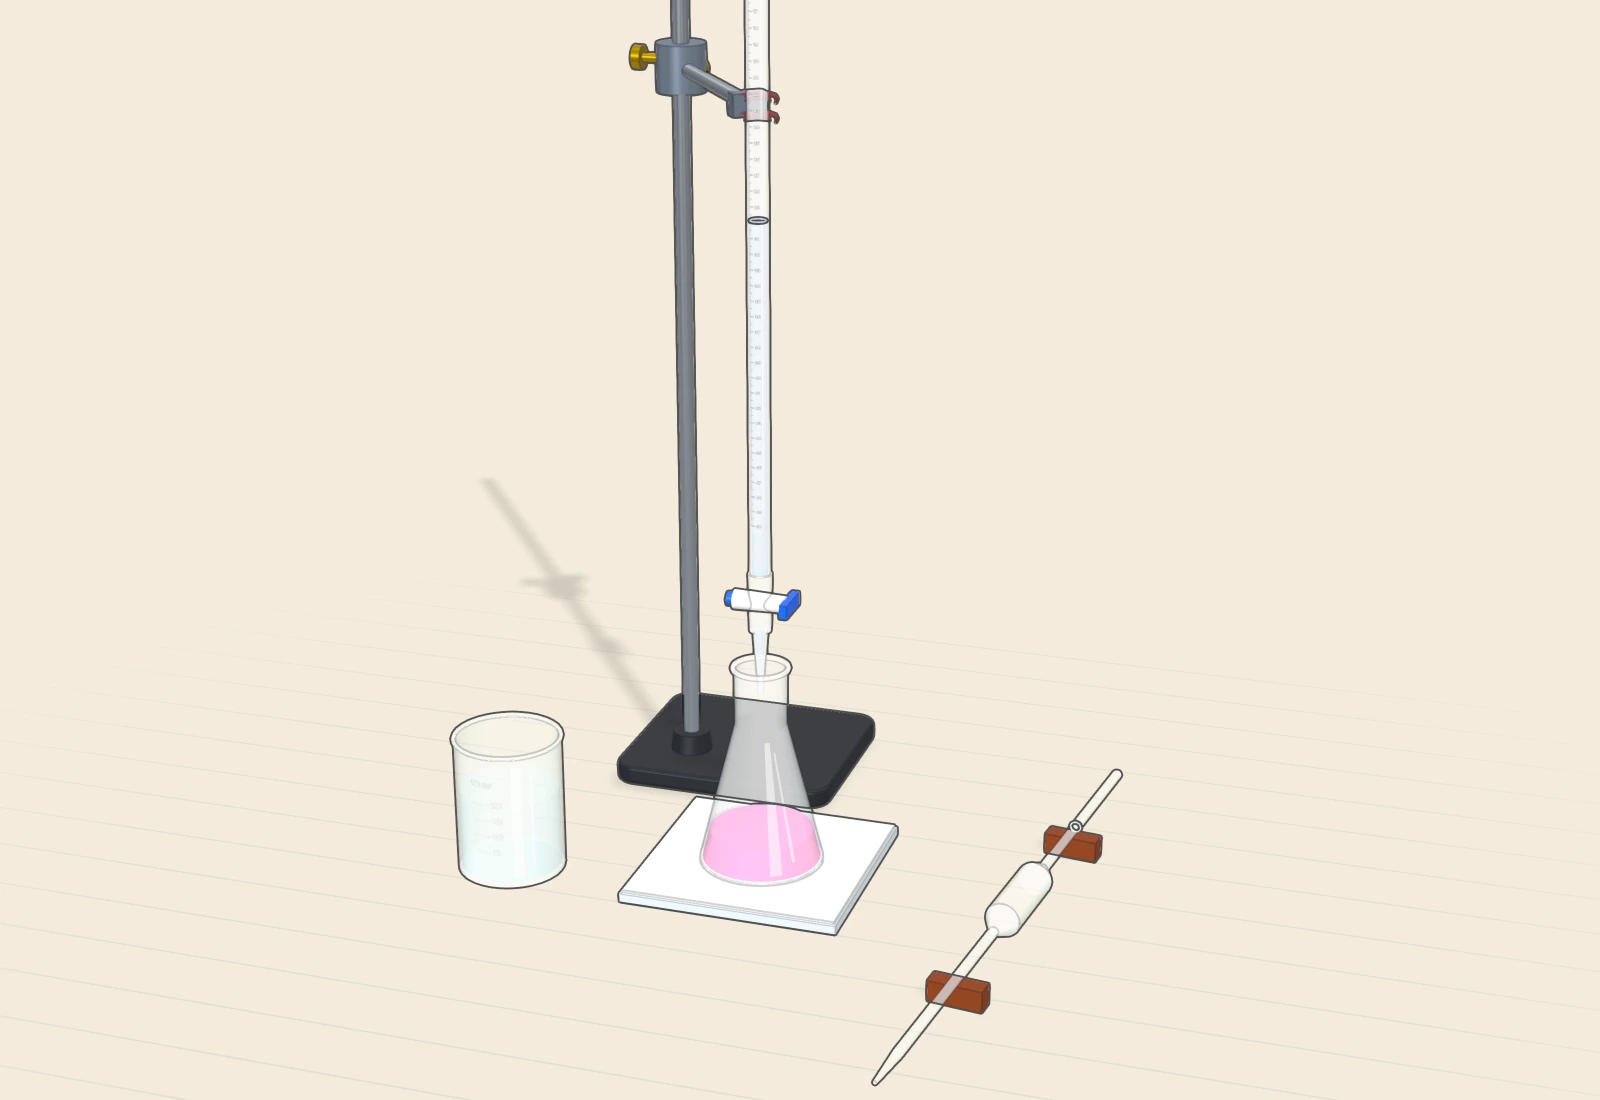
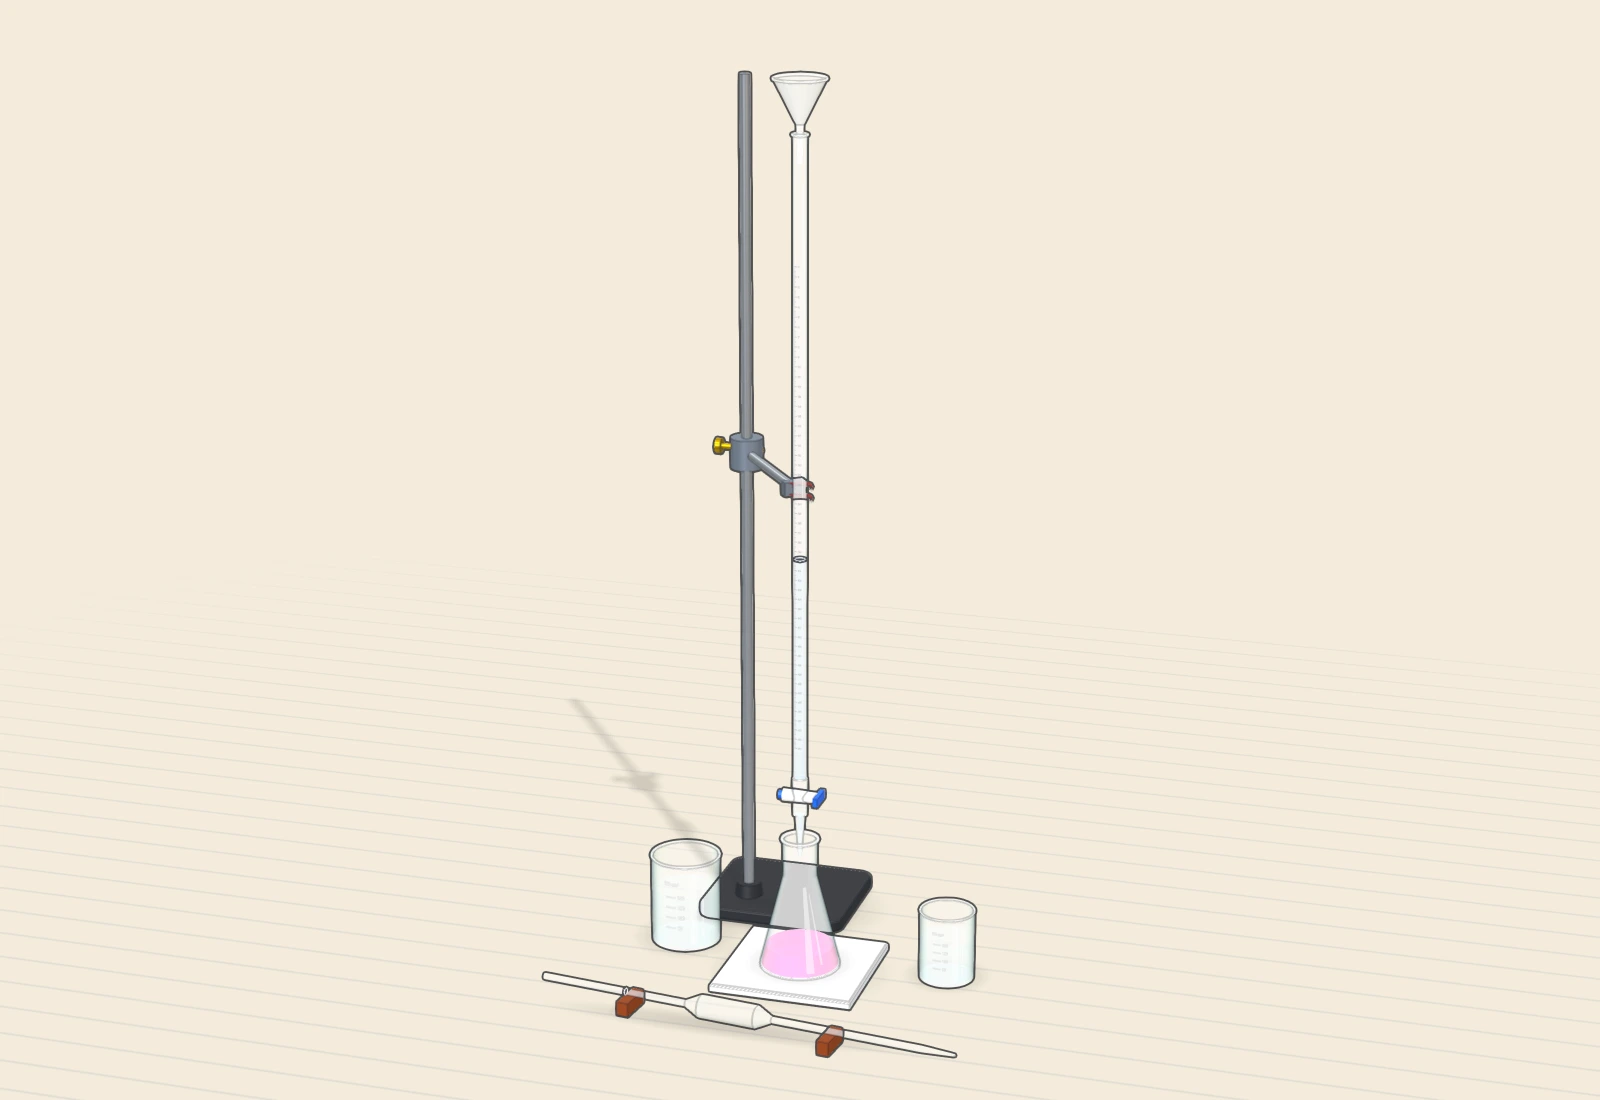
feat(home): titration still shows the whole set, with glass fresnel, grouped bench and contact shadows

diff --git a/apps/web/src/apparatus/titration/KitPreview.tsx b/apps/web/src/apparatus/titration/KitPreview.tsx
@@ -5,6 +5,7 @@ import * as THREE from "three";
 import { parseOverride } from "../../quality/tier";
 import { InkComposer } from "../../scene/ink/InkComposer";
 import { InkLights } from "../../scene/ink/InkLights";
+import { NO_INK } from "../../scene/ink/inkPass";
 import { PaperDesk } from "../../scene/ink/PaperDesk";
 import { ReadySignal } from "../../scene/ReadySignal";
 import type { QualityTier } from "../meter-bridge/types";
@@ -40,9 +41,94 @@ function writeDemoFlaskColor(readingCm3: number, out: [number, number, number]):
 // three-quarter view, no HUD. The burette top is cropped; the reading is pre-set so the meniscus
 // and its graduations show.
 const HERO_READING_CM3 = 30.0;
-const HERO_FOV = 24;
-const HERO_TARGET: readonly [number, number, number] = [0.04, 0.25, 0.04];
-const HERO_CAM: readonly [number, number, number] = [0.5, 0.82, 1.5];
+const HERO_FOV = 20;
+const HERO_TARGET: readonly [number, number, number] = [0.0, 0.46, 0.0];
+const HERO_CAM: readonly [number, number, number] = [0.85, 1.4, 2.85];
+
+/**
+ * Soft key light from the upper left (no shadow of its own; the contact blobs and the sun's
+ * shadow do that) and a faint warm bounce from the right and low, on top of InkLights' sun. Hero
+ * still only.
+ */
+function HeroLights() {
+  return (
+    <>
+      <directionalLight position={[-1.3, 2.2, 1.4]} color="#fff4e2" intensity={1.0} />
+      <directionalLight position={[1.6, 0.35, 0.9]} color="#ffd7a6" intensity={0.55} />
+    </>
+  );
+}
+
+// [x, z, radius x, radius z, y, opacity] of each soft contact blob under an item.
+const HERO_BLOBS: readonly (readonly [number, number, number, number, number, number])[] = [
+  [0.0, 0.0, 0.1, 0.1, 0.0009, 0.34], // white tile
+  [0.0, 0.0, 0.058, 0.058, 0.0092, 0.3], // flask on the tile
+  [-0.06, -0.15, 0.115, 0.1, 0.0009, 0.38], // stand base
+  [-0.14, -0.045, 0.06, 0.06, 0.0009, 0.34], // beaker
+  [0.15, -0.03, 0.048, 0.048, 0.0009, 0.34], // small beaker
+  [-0.03, 0.15, 0.2, 0.026, 0.0009, 0.3], // pipette along the front
+];
+
+/** Soft dark blobs on the desk under each item, so nothing floats on the paper. */
+function HeroContactShadows() {
+  const res = useMemo(() => {
+    const canvas = document.createElement("canvas");
+    canvas.width = 128;
+    canvas.height = 128;
+    const ctx = canvas.getContext("2d");
+    if (ctx) {
+      const g = ctx.createRadialGradient(64, 64, 6, 64, 64, 64);
+      g.addColorStop(0, "rgba(40,30,20,1)");
+      g.addColorStop(0.55, "rgba(40,30,20,0.55)");
+      g.addColorStop(1, "rgba(40,30,20,0)");
+      ctx.fillStyle = g;
+      ctx.fillRect(0, 0, 128, 128);
+    }
+    const map = new THREE.CanvasTexture(canvas);
+    map.colorSpace = THREE.SRGBColorSpace;
+    const geo = new THREE.PlaneGeometry(2, 2);
+    geo.rotateX(-Math.PI / 2);
+    const mats = HERO_BLOBS.map(
+      (b) =>
+        new THREE.MeshBasicMaterial({
+          map,
+          transparent: true,
+          opacity: b[5],
+          depthWrite: false,
+        }),
+    );
+    return { map, geo, mats };
+  }, []);
+  useEffect(
+    () => () => {
+      res.map.dispose();
+      res.geo.dispose();
+      for (const m of res.mats) m.dispose();
+    },
+    [res],
+  );
+  return (
+    <group>
+      {res.mats.map((material, i) => {
+        const b = HERO_BLOBS[i];
+        if (!b) return null;
+        return (
+          <mesh
+            // biome-ignore lint/suspicious/noArrayIndexKey: a fixed list
+            key={i}
+            geometry={res.geo}
+            material={material}
+            position={[b[0], b[4], b[1]]}
+            scale={[b[2], 1, b[3]]}
+            renderOrder={-5}
+            userData={{ [NO_INK]: true }}
+            raycast={() => null}
+          />
+        );
+      })}
+    </group>
+  );
+}
 
 function PreviewCameraRig({ zoomBurette, hero }: { zoomBurette: boolean; hero: boolean }) {
   const camera = useThree((s) => s.camera);
@@ -168,8 +254,11 @@ function DemoScene({
         target={hero ? [...HERO_TARGET] : [0, zoomBurette ? ZOOM_BURETTE_TARGET_Y : TARGET_Y, 0]}
         makeDefault
       />
-      <PaperDesk quality={quality} size={[1.4, 0.9]} y={0} />
+      {hero ? <HeroLights /> : null}
+      <PaperDesk quality={quality} size={hero ? [3.4, 2.4] : [1.4, 0.9]} y={0} />
+      {hero ? <HeroContactShadows /> : null}
       <TitrationKit
+        hero={hero}
         state={visualRef}
         quality="high"
         onStopcockChange={onStopcockChange}

diff --git a/apps/web/src/apparatus/titration/TitrationKit.tsx b/apps/web/src/apparatus/titration/TitrationKit.tsx
@@ -9,13 +9,20 @@ import { RetortStand } from "./RetortStand";
 import type { TitrationKitProps } from "./types";
 import { WhiteTile } from "./WhiteTile";
 
+// Home-card still layout (hero): everything within ~0.2 m of the flask.
+const HERO_BEAKER_POS = [-0.14, 0, -0.045] as const;
+const HERO_SMALL_BEAKER_POS = [0.15, 0, -0.03] as const;
+const HERO_PIPETTE_POS = [-0.03, 0, 0.15] as const;
+
 export function TitrationKit({
   state,
   quality,
   onStopcockChange,
   onSwirl,
   onFunnelToggle,
+  hero = false,
 }: TitrationKitProps) {
+  const beakerPos = hero ? HERO_BEAKER_POS : TITRATION_LAYOUT.beakerPos;
   return (
     <group>
       {/* Glazed white porcelain tile directly under the conical flask */}
@@ -61,17 +68,36 @@ export function TitrationKit({
         rTop={BEAKER_DIMS.radius}
         rBottom={BEAKER_DIMS.radius}
         height={BEAKER_DIMS.height}
-        position={TITRATION_LAYOUT.beakerPos}
+        position={beakerPos}
       />
 
       {/* Filter funnel in the top of the burette (visible when state.current.funnelOn is true) */}
       <Funnel state={state} quality={quality} onFunnelToggle={onFunnelToggle} />
 
-      {/* 25 cm³ bulb pipette lying on bench cradles to the right */}
-      <Pipette quality={quality} position={TITRATION_LAYOUT.pipettePos} />
+      {/* 25 cm³ bulb pipette lying on bench cradles (to the right; in the still, along the front) */}
+      {hero ? (
+        <group position={HERO_PIPETTE_POS} rotation={[0, Math.PI / 2, 0]}>
+          <Pipette quality={quality} />
+        </group>
+      ) : (
+        <Pipette quality={quality} position={TITRATION_LAYOUT.pipettePos} />
+      )}
 
       {/* 250 cm³ glass beaker to the left */}
-      <Beaker quality={quality} position={TITRATION_LAYOUT.beakerPos} />
+      <Beaker quality={quality} position={beakerPos} />
+
+      {/* The still adds a smaller second beaker on the right to balance the group */}
+      {hero ? (
+        <group position={HERO_SMALL_BEAKER_POS} scale={0.78}>
+          <Beaker quality={quality} />
+          <GlassGlints
+            quality={quality}
+            rTop={BEAKER_DIMS.radius}
+            rBottom={BEAKER_DIMS.radius}
+            height={BEAKER_DIMS.height}
+          />
+        </group>
+      ) : null}
     </group>
   );
 }

diff --git a/apps/web/src/apparatus/titration/glassFresnel.ts b/apps/web/src/apparatus/titration/glassFresnel.ts
@@ -1,0 +1,26 @@
+import type * as THREE from "three";
+import type { QualityTier } from "../meter-bridge/types";
+
+/**
+ * Cheap fresnel for the lab glass: toward the silhouette the wall gets darker, a faint
+ * green-blue and more opaque, as thick glass seen edge-on does. Patches the standard fragment
+ * shader of the given material (vNormal and vViewPosition exist there); it adds no uniform and no
+ * texture. The low tier keeps the plain material.
+ */
+export function glassFresnel<M extends THREE.MeshStandardMaterial>(
+  mat: M,
+  quality: QualityTier,
+): M {
+  if (quality === "low") return mat;
+  mat.onBeforeCompile = (shader) => {
+    shader.fragmentShader = shader.fragmentShader.replace(
+      "#include <dithering_fragment>",
+      `float glassFres = pow(1.0 - abs(dot(normalize(vNormal), normalize(vViewPosition))), 2.2);
+      gl_FragColor.rgb = mix(gl_FragColor.rgb, vec3(0.20, 0.34, 0.36), clamp(glassFres * 0.85, 0.0, 0.85));
+      gl_FragColor.a = clamp(gl_FragColor.a + glassFres * 0.5, 0.0, 0.9);
+      #include <dithering_fragment>`,
+    );
+  };
+  mat.customProgramCacheKey = () => "titration-glass-fresnel";
+  return mat;
+}

diff --git a/apps/web/src/apparatus/titration/ConicalFlask.tsx b/apps/web/src/apparatus/titration/ConicalFlask.tsx
@@ -3,6 +3,7 @@ import { useEffect, useMemo, useRef } from "react";
 import * as THREE from "three";
 import type { QualityTier } from "../meter-bridge/types";
 import { FLASK_DIMS, flaskInnerRadiusAtHeight, flaskLiquidHeight } from "./dimensions";
+import { glassFresnel } from "./glassFresnel";
 import type { TitrationVisualState } from "./types";
 
 export interface ConicalFlaskProps {
@@ -167,7 +168,7 @@ export function ConicalFlask({ state, quality, position = [0, 0, 0], onSwirl }: 
     const initialH = flaskLiquidHeight(25);
     updateLiquidVertices(liquidData, initialH, 0, FLASK_DIMS.innerBaseRadius - 0.0008);
 
-    const glassMat =
+    const glassMatBase =
       quality === "low"
         ? new THREE.MeshStandardMaterial({
             color: "#e0f2fe",
@@ -187,6 +188,8 @@ export function ConicalFlask({ state, quality, position = [0, 0, 0], onSwirl }: 
             side: THREE.DoubleSide,
             depthWrite: false,
           });
+
+    const glassMat = glassFresnel(glassMatBase, quality);
 
     const liquidMat = new THREE.MeshStandardMaterial({
       color: "#f472b6",

diff --git a/apps/web/src/apparatus/titration/Burette.tsx b/apps/web/src/apparatus/titration/Burette.tsx
@@ -3,6 +3,7 @@ import { useEffect, useMemo, useRef } from "react";
 import * as THREE from "three";
 import type { QualityTier } from "../meter-bridge/types";
 import { BURETTE_DIMS, FLASK_DIMS, volumeToY } from "./dimensions";
+import { glassFresnel } from "./glassFresnel";
 import type { TitrationVisualState } from "./types";
 
 export interface BuretteProps {
@@ -201,7 +202,7 @@ export function Burette({ state, quality, onStopcockChange, onFunnelToggle }: Bu
 
     const gradTex = createBuretteGraduationsTexture();
 
-    const glassMat =
+    const glassMatBase =
       quality === "low"
         ? new THREE.MeshStandardMaterial({
             color: "#e0f2fe",
@@ -221,6 +222,8 @@ export function Burette({ state, quality, onStopcockChange, onFunnelToggle }: Bu
             side: THREE.DoubleSide,
             depthWrite: false,
           });
+
+    const glassMat = glassFresnel(glassMatBase, quality);
 
     const gradMat = new THREE.MeshBasicMaterial({
       map: gradTex,

diff --git a/apps/web/src/apparatus/titration/Beaker.tsx b/apps/web/src/apparatus/titration/Beaker.tsx
@@ -2,6 +2,7 @@ import { useEffect, useMemo } from "react";
 import * as THREE from "three";
 import type { QualityTier } from "../meter-bridge/types";
 import { BEAKER_DIMS } from "./dimensions";
+import { glassFresnel } from "./glassFresnel";
 
 export interface BeakerProps {
   quality: QualityTier;
@@ -70,7 +71,7 @@ export function Beaker({ quality, position = [0, 0, 0] }: BeakerProps) {
 
     const scaleTex = createBeakerScaleTexture();
 
-    const glassMat =
+    const glassMatBase =
       quality === "low"
         ? new THREE.MeshStandardMaterial({
             color: "#e0f2fe",
@@ -90,6 +91,8 @@ export function Beaker({ quality, position = [0, 0, 0] }: BeakerProps) {
             side: THREE.DoubleSide,
             depthWrite: false,
           });
+
+    const glassMat = glassFresnel(glassMatBase, quality);
 
     const liquidMat = new THREE.MeshStandardMaterial({
       color: "#bae6fd",

diff --git a/apps/web/src/apparatus/titration/types.ts b/apps/web/src/apparatus/titration/types.ts
@@ -17,4 +17,6 @@ export interface TitrationKitProps {
   onStopcockChange?: (open: number) => void; // press-and-hold or drag on the stopcock, 0…1
   onSwirl?: () => void; // tap on the flask
   onFunnelToggle?: () => void; // tap on the funnel or the burette top
+  /** Home-card still only: a tighter bench layout (beaker, pipette and a second beaker grouped near the flask). */
+  hero?: boolean;
 }
